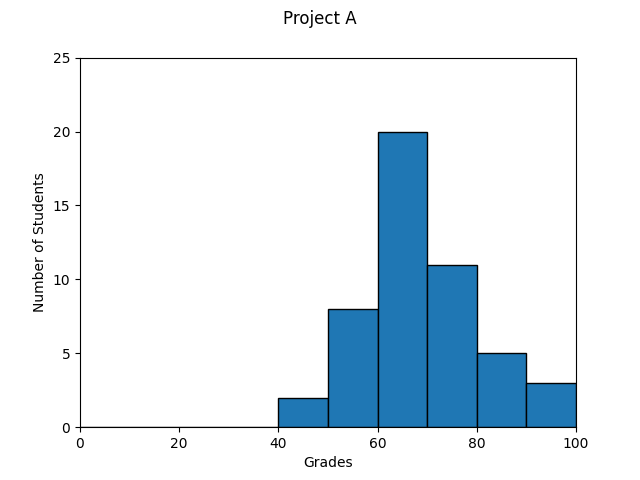
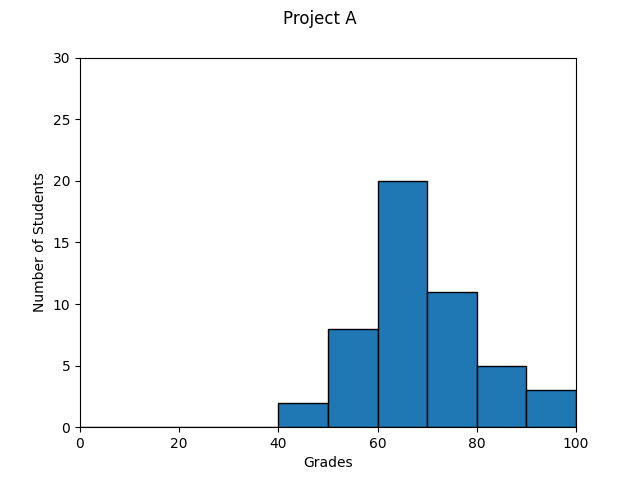
[fix] y-axis

diff --git a/math/0x01-plotting/4-frequency.py b/math/0x01-plotting/4-frequency.py
@@ -10,5 +10,5 @@ plt.xlabel('Grades')
 plt.ylabel('Number of Students')
 plt.suptitle('Project A')
 plt.xlim((0, 100))
-plt.yticks(np.arange(0, 30, 5))
+plt.ylim((0, 30))
 plt.show()
